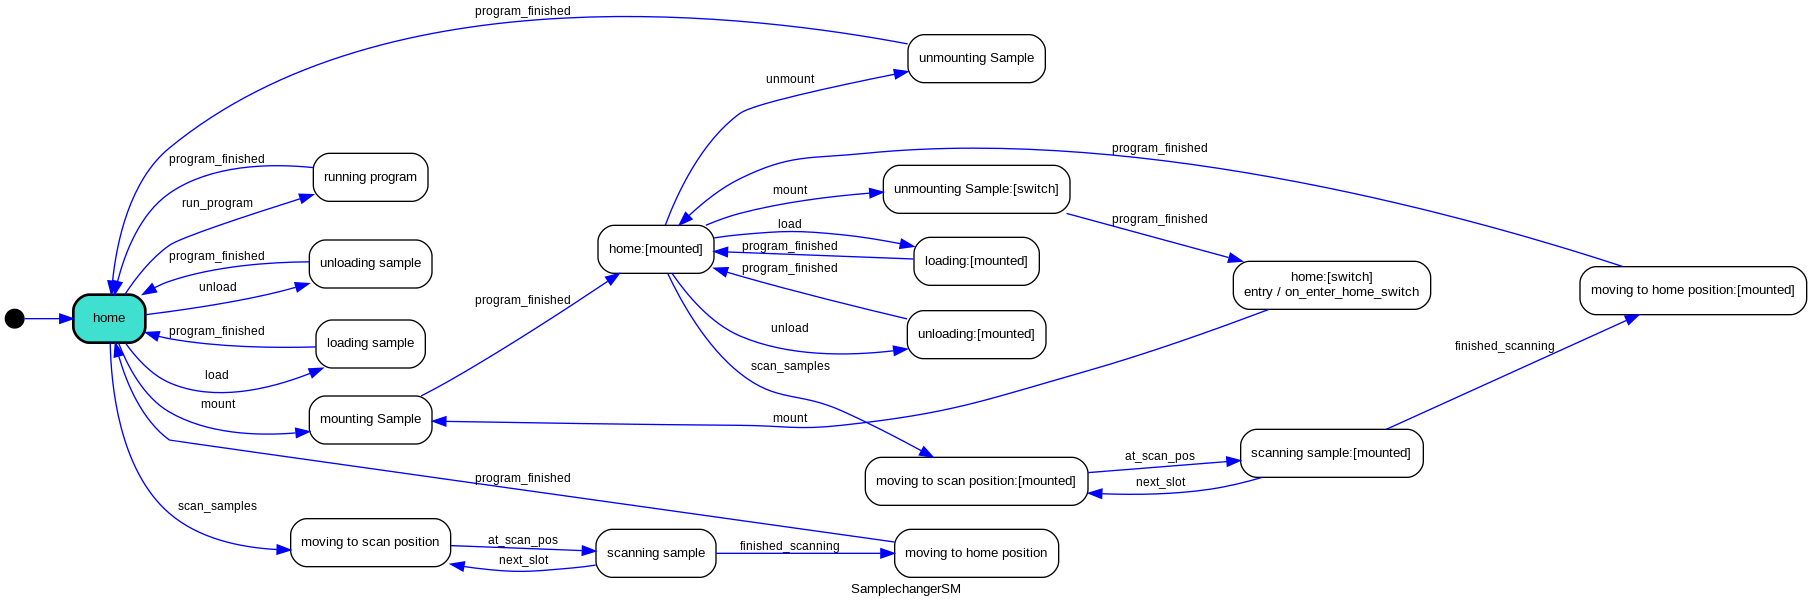
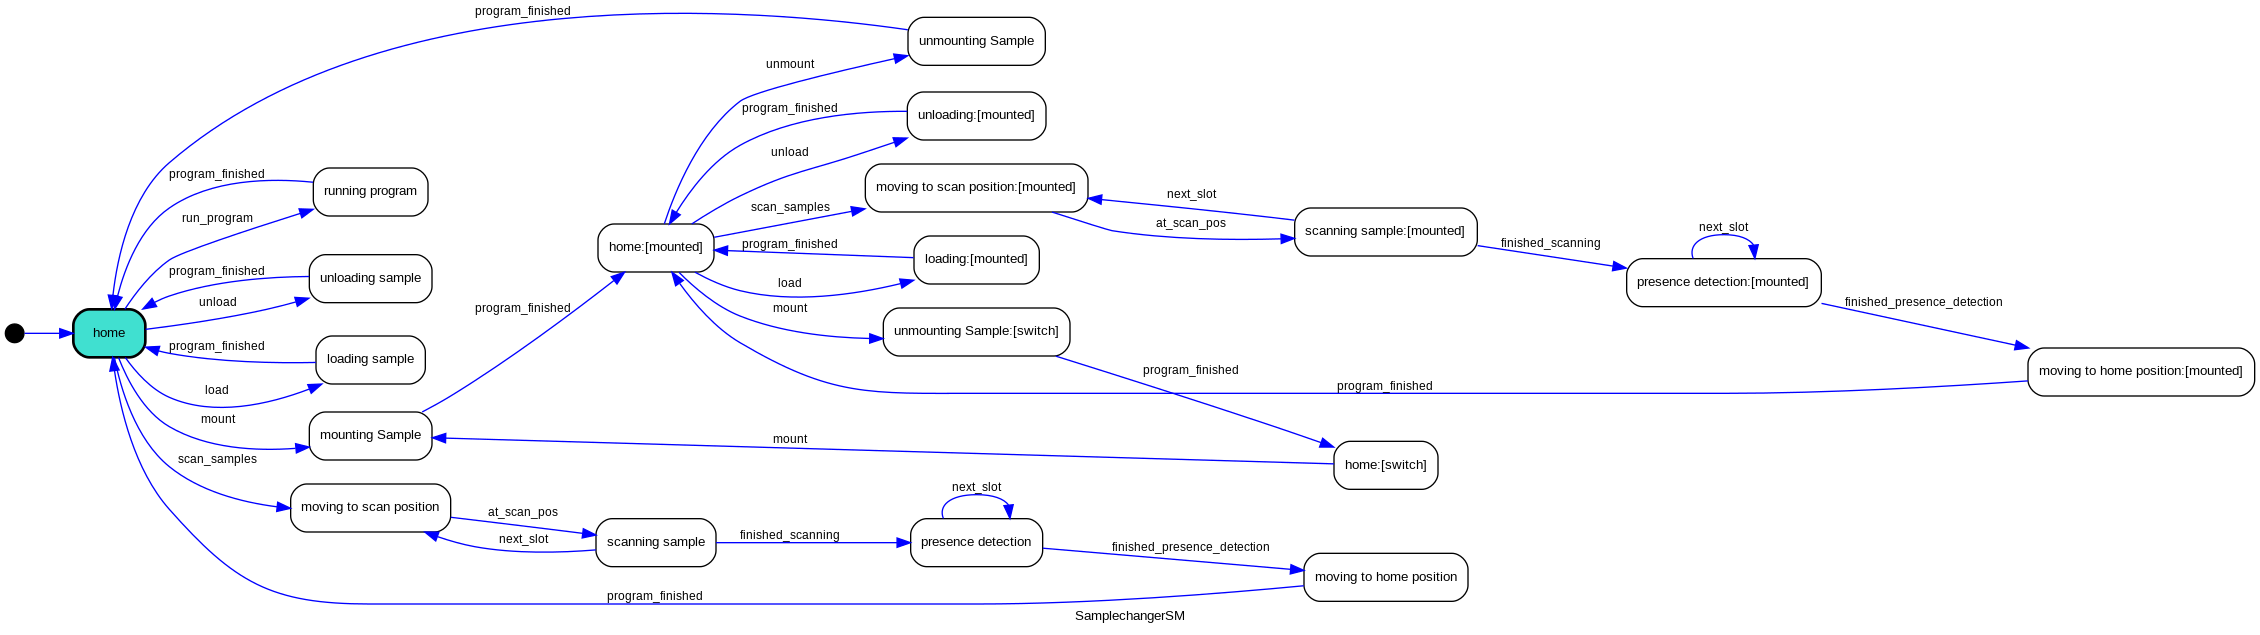
scanning works

diff --git a/frappy_HZB/robot_server.py b/frappy_HZB/robot_server.py
@@ -28,7 +28,8 @@ class RobotServer:
             self.camera = None
             
 
-    def run_OK_callbacks(self,cb_arg = None):        
+    def run_OK_callbacks(self,cb_arg = None): 
+        self.log.info(f"Running OK callbacks, current State: {self.samplechanger_sm.current_state.id}")       
         for callback_tuple in self.callbacks:
             match callback_tuple:
                 case ('ok',self.samplechanger_sm.current_state.value, callback):
@@ -54,6 +55,10 @@ class RobotServer:
     def set_qr_code_callback(self, qr_code_callback):
         self.qr_code_callback = qr_code_callback
         
+        
+    def set_presence_detection_callback(self, presence_detection_callback):
+        self.presence_detection_callback = presence_detection_callback
+        
     def decode_img(self,img,i= 0):         
 
         # initialize the cv2 QRCode detector
@@ -66,7 +71,9 @@ class RobotServer:
         #retval, decoded_info, points, straight_qrcode = self.qcd.detectAndDecodeMulti(img)
         # if there is a QR code
         # print the data
-        if sample_ids != ():
+        
+                
+        if sample_ids != () and sample_ids != (None,):
             self.log.info(f"QRCode data: {sample_ids[0]}")
             return sample_ids[0]
         
@@ -122,28 +129,55 @@ class RobotServer:
                     self.log.info(f"Connection closed by {addr}")
                     break
                 
-                self.log.debug(f"Received line: '{message}' from {addr}")
+                self.log.info(f"Received line: '{message}' from {addr}")
                 
                 
                 match message.split(":"):
-                    case ['QR', slot_nr]:
-                        self.samplechanger_sm.at_scan_pos()
-                        self.log.info(f'Camera at QR code: {slot_nr}')
+                    case ['Slot', slot_nr,detected]:
                         
-                        #await asyncio.sleep(0.5)
-                        
-                        if self.camera != None:
-                            img = self.grab_img(int(slot_nr))
-                            qr_data = self.decode_img(img,int(slot_nr))
-                            
-                            if qr_data is not None:
-                                self.qr_code_callback(int(slot_nr) -1 ,qr_data)                        
-                            
-            
+                        self.presence_detection_callback(int(slot_nr) -1,int(detected))
+                             
+                    
                         if int(slot_nr) == nsamples:
-                            self.samplechanger_sm.finished_scanning()
+                            self.samplechanger_sm.finished_presence_detection()
                         else:
                             self.samplechanger_sm.next_slot()
+                    case ['QR', slot_nr]:
+                        if self.samplechanger_sm.current_state == SamplechangerSM.moving_to_scan_pos:
+                            self.samplechanger_sm.at_scan_pos()
+                            self.log.info(f'Camera at QR code: {slot_nr}')
+                            
+                            #await asyncio.sleep(0.5)
+                            
+                            if self.camera != None:
+                                img = self.grab_img(int(slot_nr))
+                                qr_data = self.decode_img(img,int(slot_nr))
+                                
+                                if qr_data is not None:
+                                    self.qr_code_callback(int(slot_nr) -1 ,qr_data)                        
+                                
+                
+                            if int(slot_nr) == nsamples:
+                                self.samplechanger_sm.finished_scanning()
+                            else:
+                                self.samplechanger_sm.next_slot()
+                                
+                        if self.samplechanger_sm.current_state == SamplechangerSM.mounting:
+                            self.log.info(f'Camera at QR code: {slot_nr}')
+                            
+                            #await asyncio.sleep(0.5)
+                            
+                            if self.camera != None:
+                                img = self.grab_img(int(slot_nr))
+                                qr_data = self.decode_img(img,int(slot_nr))
+                                
+                                
+                                #TODO check if QR code is different to the one in storage!!!
+                                self.log.info(f'QR code: {qr_data} at slot {slot_nr}')                  
+
+                
+
+                            
                     case ['GET x']:
                         response = "x 1\n"
                         

diff --git a/frappy_HZB/special_position.py b/frappy_HZB/special_position.py
@@ -67,21 +67,25 @@ class Special_Position(HasIO,Drivable):
         ]
         
         self.a_hardware.robo_server.add_callbacks(self.callbacks)
+        
+    def read_value(self):
+        return self.value
+    
+    def read_target(self):  
+        return self.target
     
     def write_target(self,target):               
-        curr_state = self.a_hardware.sm.current_state  
+
         
+        print(f"target: {target}, type: {type(target)}")
         
-        if target == "":            
+        if not target:      
             ### Unmount:
             return self._unmount("unmount")
         else:                   
-           ### Mount:
-           
-            if curr_state == SamplechangerSM.home_mounted:
-                return self._unmount("mount")
-            else: 
-                return self._mount(target,"mount")
+           ### Mount: 
+           #TODO Sample switch
+            return self._mount("mount",target)
     
     def mount_error_callback(self,error_message= None):
         self.a_hardware.error_occured(error_message)
@@ -90,7 +94,10 @@ class Special_Position(HasIO,Drivable):
     
     def mount_ok_callback(self):
         # Robot successfully mounting the sample
+        print("mount ok")
         self.value = self.target
+        self.read_target()
+        self.read_value()
     
     def unmount_error_callback(self,error_message= None):
         self.a_hardware.error_occured(error_message)
@@ -98,15 +105,20 @@ class Special_Position(HasIO,Drivable):
     
     def unmount_ok_callback(self):
         # Robot successfully unmounted the sample
+        print("unmount ok")
         self.value = ""
+        self.read_value()
     
     
        
     def _mount(self,sm_event,target):
         """Mount Sample to Robot arm"""
+        
         assert(target != "")
         
-        curr_state = self.a_hardware.sm.current_state         
+        curr_state = self.a_hardware.sm.current_state   
+        
+        self.log.info(f"requested sample: {target} to be mounted")      
         
         #check if curr_state is in a list of states where mounting is possible
         if curr_state not in [SamplechangerSM.home, SamplechangerSM.home_switch, SamplechangerSM.home_mounted]:        
@@ -116,12 +128,12 @@ class Special_Position(HasIO,Drivable):
         if self.a_storage.mag.get_index(target) == None:
             raise ImpossibleError('no sample with ID: ' +str(target)+' in storage! please, check sample objects stored in storage')
               
-    
+        slot = self.a_storage.mag.get_index(target) +1
      
         # Run Robot script to mount actual Sample        
-        prog_name = 'messpos'+ str(target) + '.urp'
+        prog_name = 'messin'+ str(slot) + '.urp'
         
-        assert(re.match(r'messpos\d+\.urp',prog_name) )
+        assert(re.match(r'messin\d+\.urp',prog_name) )
         
         self.a_hardware.run_program(prog_name,sm_event)
  
@@ -139,6 +151,8 @@ class Special_Position(HasIO,Drivable):
     def _unmount(self,sm_event):
         """Unmount Sample to Robot arm"""
         
+        self.log.info(f"requested sample: {self.value} to be unmounted")
+        
         curr_state = self.a_hardware.sm.current_state         
         
         
@@ -150,11 +164,15 @@ class Special_Position(HasIO,Drivable):
         if self.a_storage.mag.get_index(self.value) == None:
             raise ImpossibleError('no sample with ID: ' +str(self.value)+' in storage! please, check sample objects stored in storage')
                     
+                    
+        slot = self.a_storage.mag.get_index(self.value) +1
+        
+        print(f"slot: {slot}")
         
         # Run Robot script to unmount Sample        
-        prog_name = 'messposin'+ str(self.value) + '.urp'
+        prog_name = 'messout'+ str(slot) + '.urp'
         
-        assert(re.match(r'messposin\d+\.urp',prog_name) )
+        assert(re.match(r'messout\d+\.urp',prog_name) )
         
         self.a_hardware.run_program(prog_name,sm_event)
 
@@ -171,6 +189,7 @@ class Special_Position(HasIO,Drivable):
        
     def read_status(self):
             robo_state = self.a_hardware.sm.current_state
+            
             
             if robo_state in [SamplechangerSM.mounting]:
                 return MOUNTING , "Mounting Sample"
@@ -203,7 +222,7 @@ class Special_Position(HasIO,Drivable):
         self.next_sample = next_sample
         
         if self.a_hardware.sm.current_state == SamplechangerSM.home:
-            self._mount(next_sample,"mount")
+            self._mount("mount",next_sample)
         
         
         if self.a_hardware.sm.current_state == SamplechangerSM.home_mounted:

diff --git a/frappy_HZB/samplechanger_sm.py b/frappy_HZB/samplechanger_sm.py
@@ -1,4 +1,4 @@
-from statemachine import StateMachine, State
+from statemachine import StateMachine, State, Event
 
 
 
@@ -10,28 +10,35 @@ class SamplechangerSM(StateMachine):
     home = State('home', initial= True)    
     home_mounted = State('home:[mounted]')
     
-    mounting = State('mounting Sample','mount')
+    mounting = State('mounting Sample')
     
-    unmounting = State('unmounting Sample','unmount')
-    unmounting_switch = State('unmounting Sample:[switch]', 'unmount')
+    unmounting = State('unmounting Sample',)
+    unmounting_switch = State('unmounting Sample:[switch]')
     
 
     
-    loading = State('loading sample','load')
-    loading_mounted = State('loading:[mounted]', 'load')
+    loading = State('loading sample')
+    loading_mounted = State('loading:[mounted]')
     
     unloading = State('unloading sample','unload')
-    unloading_mounted = State('unloading:[mounted]', 'unload')
+    unloading_mounted = State('unloading:[mounted]')
     
 
-    moving_to_scan_pos = State('moving to scan position','scan_samples') 
-    moving_to_scan_pos_mounted = State('moving to scan position:[mounted]', 'scan_samples')
+    moving_to_scan_pos = State('moving to scan position') 
+    moving_to_scan_pos_mounted = State('moving to scan position:[mounted]')
     
-    scanning_sample = State('scanning sample','scan_samples')
-    scanning_sample_mounted = State('scanning sample:[mounted]', 'scan_samples')
+    scanning_sample = State('scanning sample')
+    scanning_sample_mounted = State('scanning sample:[mounted]')
     
-    moving_to_home_pos = State('moving to home position','scan_samples')
-    moving_to_home_mounted_pos = State('moving to home position:[mounted]', 'scan_samples')
+    moving_to_home_pos = State('moving to home position')
+    moving_to_home_mounted_pos = State('moving to home position:[mounted]')
+    
+    presence_detection = State('presence detection')
+    presence_detection_mounted = State('presence detection:[mounted]')
+    
+    
+
+    
     
     
     running_program = State('running program','run_program')
@@ -103,11 +110,20 @@ class SamplechangerSM(StateMachine):
     next_slot = (
         scanning_sample.to(moving_to_scan_pos)
         | scanning_sample_mounted.to(moving_to_scan_pos_mounted)
+        | presence_detection.to.itself()
+        | presence_detection_mounted.to.itself()
     )
     
     finished_scanning = (
-        scanning_sample.to(moving_to_home_pos)
-        | scanning_sample_mounted.to(moving_to_home_mounted_pos)
+        scanning_sample.to(presence_detection)
+        | scanning_sample_mounted.to(presence_detection_mounted)
+    )
+    
+
+    
+    finished_presence_detection = (
+        presence_detection.to(moving_to_home_pos)
+        | presence_detection_mounted.to(moving_to_home_mounted_pos)
     )
 
     def set_storage(self, storage):
@@ -118,7 +134,13 @@ class SamplechangerSM(StateMachine):
 
     
     def on_enter_home_switch(self):
-        self.special_pos_module._mount(self.special_pos_module.next_sample,"mount")
+        self.special_pos_module._mount("mount",self.special_pos_module.next_sample)
+        
+    def on_transition(self, event_data, event: Event):
+        # The `event` parameter can be declared as `str` or `Event`, since `Event` is a subclass of `str`
+        # Note also that in this example, we're using `on_transition` instead of `on_cycle`, as this
+        # binds the action to run for every transition instead of a specific event ID.
+        print(f'State: {self.current_state.id} incoming Event: {event.id}' )
         
     
 

diff --git a/frappy_HZB/storage.py b/frappy_HZB/storage.py
@@ -83,6 +83,17 @@ class Magazin:
         return next(self._next_sample_gen)
 
             
+            
+    def detection_callback(self,slot,detected):
+        
+        print(f"Slot {slot} detected: {detected}")
+        if detected == 0:
+            self.samples[slot] = ""
+        
+        if detected == 1 and self.samples[slot] == "":
+
+            self.samples[slot] = "@" + str(slot)
+
 
 
             
@@ -121,6 +132,8 @@ class Storage(HasIO,Readable):
         self.mag = Magazin(nsamples)
         self.a_hardware.sm.set_storage(self)
         self.a_hardware.robo_server.set_qr_code_callback(self.set_new_sampleID)
+        self.a_hardware.robo_server.set_presence_detection_callback(self.mag.detection_callback)
+        
         
         self.inserted_sample = None
         self.unloaded_sample = None

diff --git a/cfg/samplechanger_cfg.py b/cfg/samplechanger_cfg.py
@@ -8,8 +8,8 @@ Node('sample_changer.HZB',  # a globally unique identification
 Mod('robot_io',  # the name of the module
     'frappy_HZB.hardware.RobotIO',  # the class used for communication
     'TCP communication to robot Dashboard Server Interface',  # a description
-    #uri='tcp://192.168.3.5:29999', 
-    uri='tcp://localhost:29999', 
+    uri='tcp://192.168.3.5:29999', 
+    #uri='tcp://localhost:29999', 
 )    
     
 Mod('hardware',
